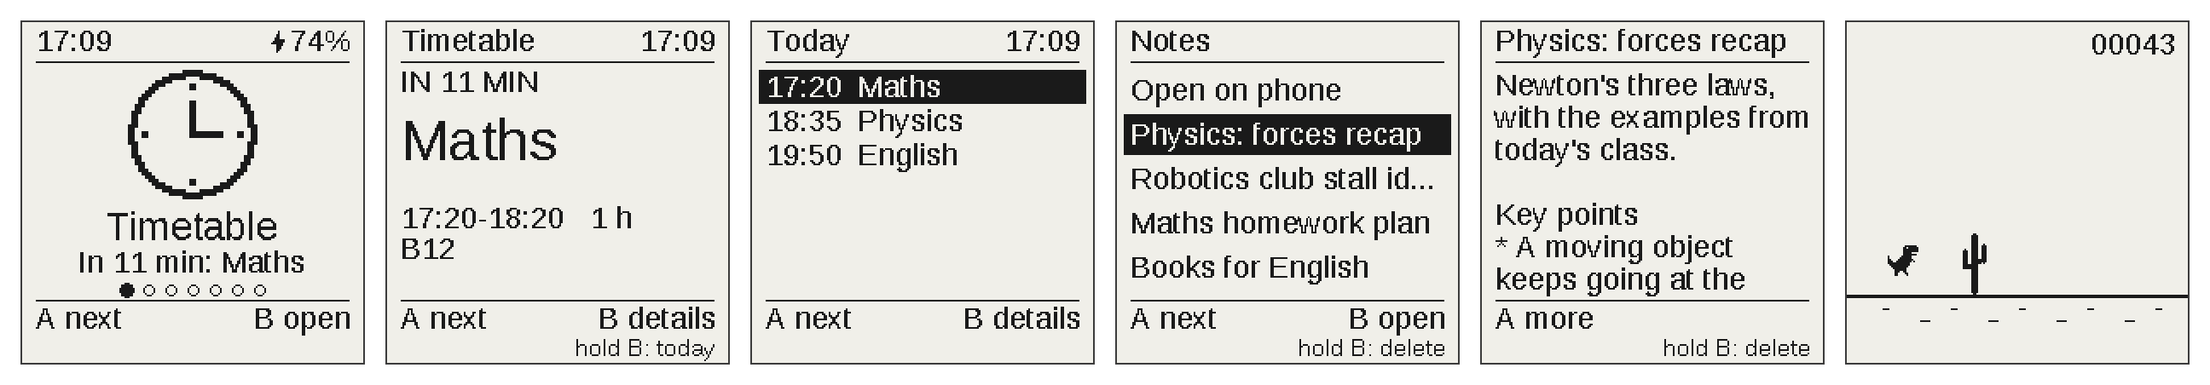
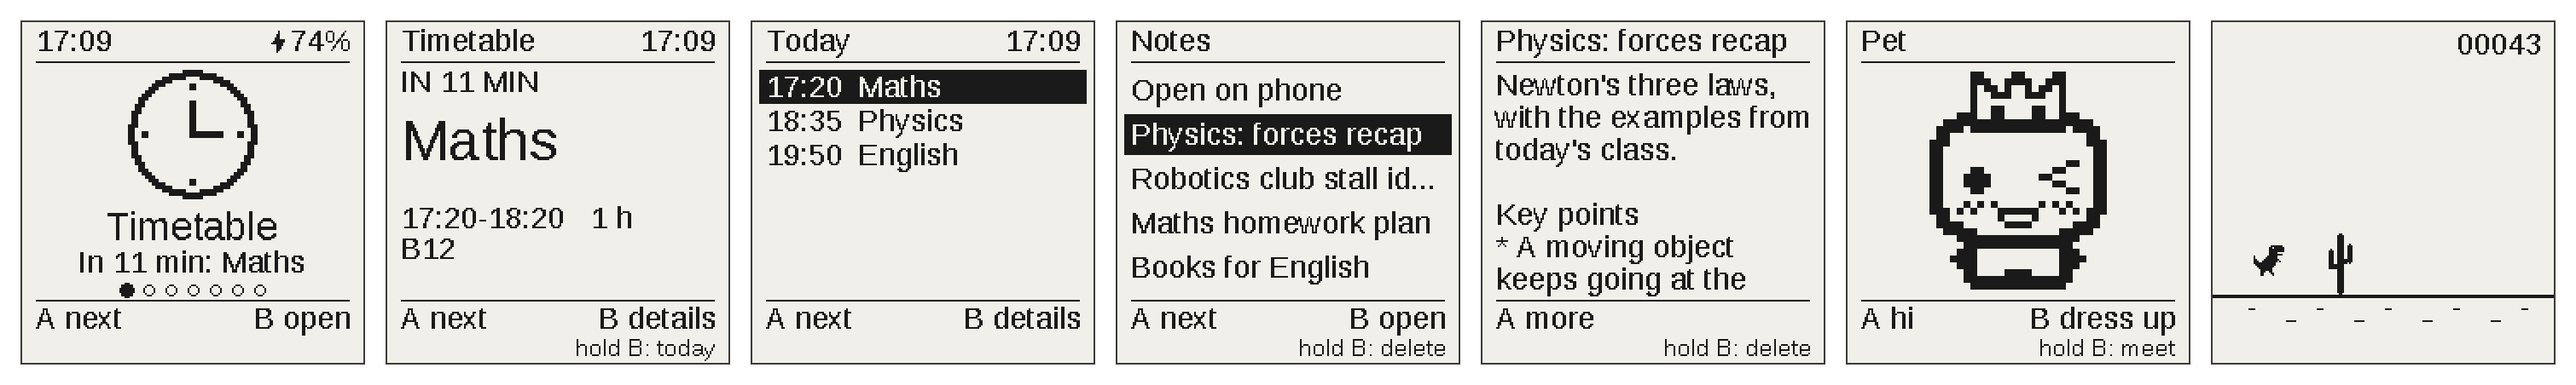
README and website: the Pet in the intro, the screenshot strip and the link preview; the website says free for non-commercial use (not open source); the strip and preview are made by tools/readme_images.py (it was a script outside the repo)

diff --git a/site/index.html b/site/index.html
@@ -4,12 +4,12 @@
 <meta charset="utf-8">
 <meta name="viewport" content="width=device-width, initial-scale=1">
 <title>unidex: install the e-ink pocket OS</title>
-<meta name="description" content="Install unidex on a Waveshare ESP32-S3 1.54&quot; e-paper board from your browser: class timetable with a live countdown, AI voice notes for Obsidian, name badges and one-button games. Open source.">
+<meta name="description" content="Install unidex on a Waveshare ESP32-S3 1.54&quot; e-paper board from your browser: class timetable with a live countdown, AI voice notes for Obsidian, a Pet that meets your friends' Pets, name badges and one-button games. Free for non-commercial use.">
 <link rel="canonical" href="https://forrest404.github.io/unidex/">
 <meta property="og:type" content="website">
 <meta property="og:site_name" content="unidex">
 <meta property="og:title" content="unidex: an e-ink pocket OS">
-<meta property="og:description" content="Install unidex on a Waveshare ESP32-S3 1.54&quot; e-paper board from your browser: class timetable with a live countdown, AI voice notes for Obsidian, name badges and one-button games. Open source.">
+<meta property="og:description" content="Install unidex on a Waveshare ESP32-S3 1.54&quot; e-paper board from your browser: class timetable with a live countdown, AI voice notes for Obsidian, a Pet that meets your friends' Pets, name badges and one-button games. Free for non-commercial use.">
 <meta property="og:url" content="https://forrest404.github.io/unidex/">
 <meta property="og:image" content="https://forrest404.github.io/unidex/og.png">
 <meta property="og:image:width" content="1200">
@@ -36,7 +36,8 @@
 <main>
   <h1>Install unidex</h1>
   <p class="sub">A small e-ink OS for the Waveshare ESP32-S3-ePaper-1.54: timetable with calendar events, voice
-    notes, name badges, a WiFi network collection game and a chooser. Install it straight from your browser, with nothing to download.</p>
+    notes, a Pet you dress up that plays with your friends' Pets, name badges, one-button games, a WiFi network
+    collection game and a chooser. Install it straight from your browser, with nothing to download.</p>
   <p class="note">No board yet? A fully assembled and tested unidex is available to
     <a href="https://unidex-site.vercel.app">pre-order in the UK</a>.</p>
 

diff --git a/site/tools.html b/site/tools.html
@@ -4,12 +4,12 @@
 <meta charset="utf-8">
 <meta name="viewport" content="width=device-width, initial-scale=1">
 <title>unidex: tools</title>
-<meta name="description" content="Sync everything in one click (firmware, clock, calendar, notes), make 1-bit name badges, set the clock and send a calendar file to a unidex e-ink device over USB.">
+<meta name="description" content="Sync everything in one click (firmware, clock, calendar, notes), make 1-bit name badges, dress up your Pet, set the clock and send a calendar file to a unidex e-ink device over USB.">
 <link rel="canonical" href="https://forrest404.github.io/unidex/tools.html">
 <meta property="og:type" content="website">
 <meta property="og:site_name" content="unidex">
 <meta property="og:title" content="unidex tools">
-<meta property="og:description" content="Sync everything in one click (firmware, clock, calendar, notes), make 1-bit name badges, set the clock and send a calendar file to a unidex e-ink device over USB.">
+<meta property="og:description" content="Sync everything in one click (firmware, clock, calendar, notes), make 1-bit name badges, dress up your Pet, set the clock and send a calendar file to a unidex e-ink device over USB.">
 <meta property="og:url" content="https://forrest404.github.io/unidex/tools.html">
 <meta property="og:image" content="https://forrest404.github.io/unidex/og.png">
 <meta property="og:image:width" content="1200">

diff --git a/tools/readme_images.py b/tools/readme_images.py
@@ -1,0 +1,51 @@
+#!/usr/bin/env python3
+"""The README's strip of screens (docs/screens.png) and the website's link preview (site/og.png), from the screenshots
+tools/walkthroughs/readme.txt takes (devshot.py, 600x600 at 3x):
+
+  ~/.platformio/penv/bin/python tools/devshot.py run tools/walkthroughs/readme.txt --out shots/readme
+  python3 tools/readme_images.py shots/readme          (needs Pillow; add --og to remake the link preview too)
+
+Plain: the e-paper's tone for the screens with a thin frame, Liberation Sans (tools/fonts) for the preview's text.
+"""
+import os, sys
+from PIL import Image, ImageDraw, ImageFont
+
+shots = sys.argv[1]
+repo = os.path.join(os.path.dirname(os.path.abspath(__file__)), "..")
+PAPER, INK, BG, EDGE = (240, 239, 233), (26, 26, 26), (255, 255, 255), (60, 60, 60)
+STRIP = ["r-home-timetable", "r-timetable", "r-today", "r-notes-list", "r-note", "r-pet", "r-dino"]
+
+
+def screen(name, size):
+    im = Image.open(os.path.join(shots, name + ".png")).convert("L").resize((size, size), Image.NEAREST)
+    out = Image.new("RGB", (size, size), PAPER)
+    out.paste(Image.new("RGB", (size, size), INK), mask=im.point(lambda v: 255 if v < 128 else 0))
+    framed = Image.new("RGB", (size + 4, size + 4), EDGE)  # a 2 px border, like the panel's edge
+    framed.paste(out, (2, 2))
+    return framed
+
+
+tiles = [screen(n, 400) for n in STRIP]  # 2x
+gap, pad = 24, 24
+width = pad * 2 + sum(t.width for t in tiles) + gap * (len(tiles) - 1)
+strip = Image.new("RGB", (width, pad * 2 + tiles[0].height), BG)
+x = pad
+for t in tiles:
+    strip.paste(t, (x, pad))
+    x += t.width + gap
+strip.save(os.path.join(repo, "docs", "screens.png"), optimize=True)
+print("docs/screens.png", strip.size)
+
+if "--og" in sys.argv:  # the link preview: the name and one line on the left, two screens on the right
+    fonts = os.path.join(repo, "tools", "fonts")
+    og = Image.new("RGB", (1200, 630), BG)
+    d = ImageDraw.Draw(og)
+    d.text((72, 170), "unidex", font=ImageFont.truetype(os.path.join(fonts, "LiberationSans-Bold.ttf"), 96), fill=INK)
+    body = ImageFont.truetype(os.path.join(fonts, "LiberationSans-Regular.ttf"), 34)
+    for i, line in enumerate(["A pocket e-ink OS for the", "Waveshare ESP32-S3 board:", "timetable, voice notes,",
+                              "a Pet, badges and games."]):
+        d.text((76, 300 + i * 46), line, font=body, fill=(70, 70, 70))
+    og.paste(screen("r-timetable", 280), (560, 175))
+    og.paste(screen("r-pet", 280), (870, 175))
+    og.save(os.path.join(repo, "site", "og.png"), optimize=True)
+    print("site/og.png", og.size)

diff --git a/README.md b/README.md
@@ -4,7 +4,7 @@
 
 - shows your next class with a live countdown;
 - records voice notes, tidied into Markdown for Obsidian;
-- keeps a little pet you dress up;
+- keeps a little Pet you dress up, which meets your friends' Pets on their unidex (they visit, chat and swap badges);
 - flips through name badges;
 - runs a WiFi collection game and four one-button games;
 - sleeps whenever you aren't pressing a button, to save battery.
@@ -22,7 +22,7 @@ Install it from your browser in a minute, with no tools to set up.
   <a href="https://unidex-site.vercel.app"><img height="36" alt="Pre-order (UK)" src="https://img.shields.io/badge/pre--order-UK-black?style=for-the-badge"></a>
 </p>
 
-![unidex on the 200×200 e-paper screen: the next class on the home screen, the Timetable countdown, today's classes, the notes list, an open note and a round of Dino](docs/screens.png)
+![unidex on the 200×200 e-paper screen: the next class on the home screen, the Timetable countdown, today's classes, the notes list, an open note, the Pet and a round of Dino](docs/screens.png)
 
 | App | What it does |
 |---|---|
